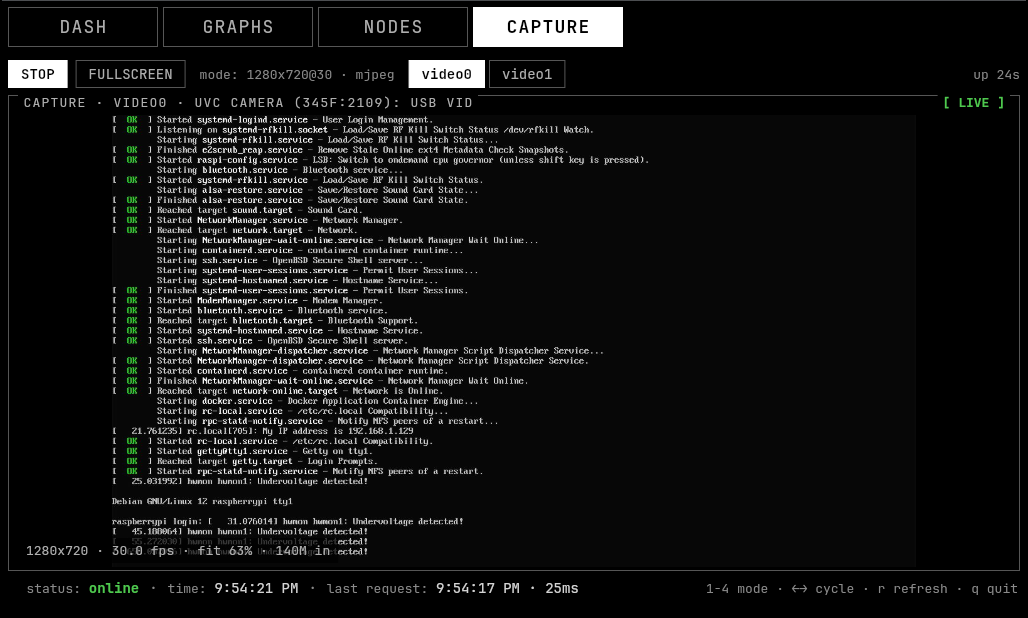
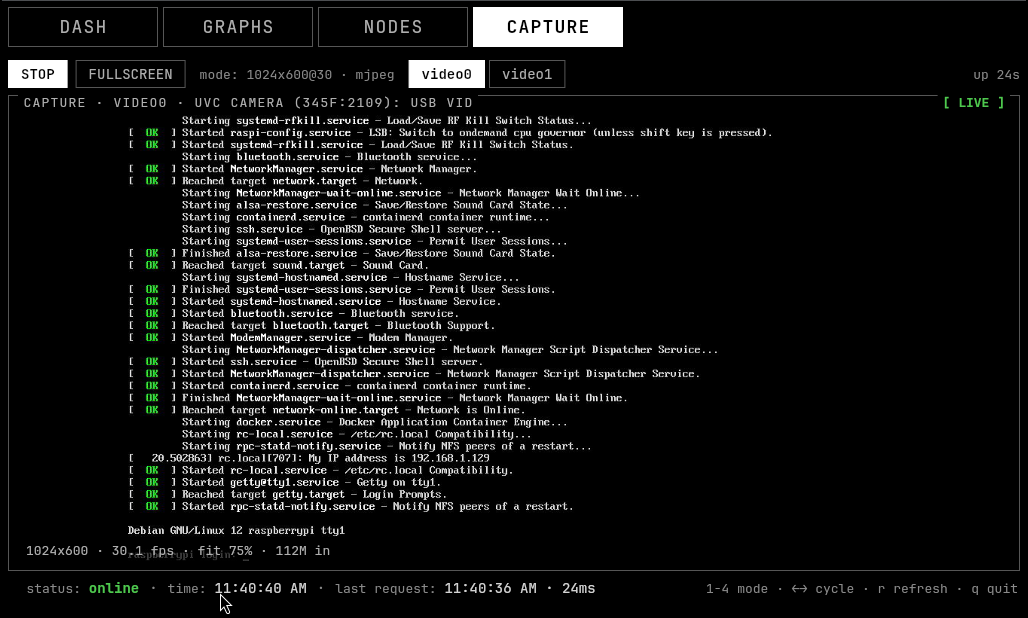
docs: link the card's firmware, refresh the capture shot
Stock MS2109 firmware offers nothing narrower than 16:9 at this height,
so 1024x600 exists on this stick only because it was reflashed. The
README described the mode without saying where it came from; it now
points at the firmware repository.

The capture screenshot is retaken against that mode: 1024x600@30 at fit
75%, where the old one showed 720p squeezed to 63%.

The homelab badge goes. The link in the opening paragraph already says
where the cluster is documented, and the badge row is for what the app
talks to.

diff --git a/README.md b/README.md
@@ -11,7 +11,6 @@
 [![V4L2](https://img.shields.io/badge/V4L2-MJPEG-555555?logo=linux&logoColor=white)](https://www.kernel.org/doc/html/latest/userspace-api/media/v4l/v4l2.html)
 [![Conventional Commits](https://img.shields.io/badge/Conventional%20Commits-1.0.0-FE5196?logo=conventionalcommits&logoColor=white)](https://www.conventionalcommits.org/)
 [![Made with Claude Code](https://img.shields.io/badge/Made%20with-Claude%20Code-D97757?logo=anthropic&logoColor=white)](https://claude.com/claude-code)
-[![Homelab](https://img.shields.io/badge/homelab-NKTKLN-181717?logo=github&logoColor=white)](https://github.com/NKTKLN/homelab)
 
 **Rackglass** is a terminal-style Prometheus dashboard for a 7" 1024x600 panel
 sitting on a desk next to the rack. Plain Linux console look: black background,
@@ -206,7 +205,9 @@ each to Skia. Measured on the real device: 4–8% of one core for the child at
 The geometry is fixed rather than pickable. The card is flashed to offer
 1024x600, the panel's own resolution, so the source arrives at exactly the size
 the screen can show and nothing is captured only to be thrown away again on the
-way to the display. Re-measured on the card after that reflash, against the same
+way to the display. That firmware, and how it was put on the stick, are in
+[NKTKLN/ms2109-d7-1024x600](https://github.com/NKTKLN/ms2109-d7-1024x600) —
+stock firmware offers no mode narrower than 16:9 at this height. Re-measured on the card after that reflash, against the same
 source, every mode holds its rate:
 
 | Mode | fps | Stream | Frame |
